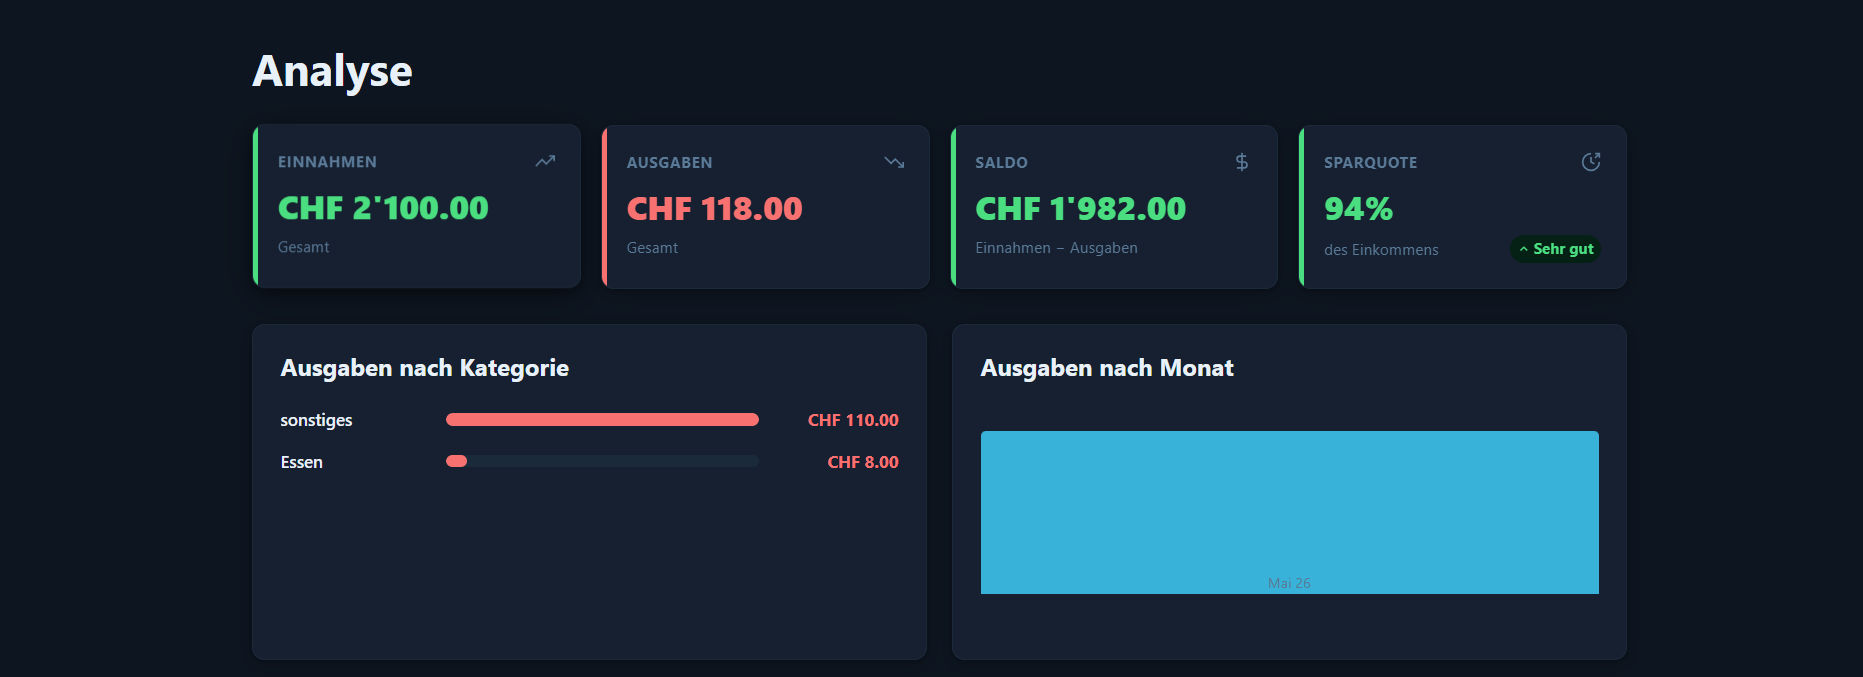
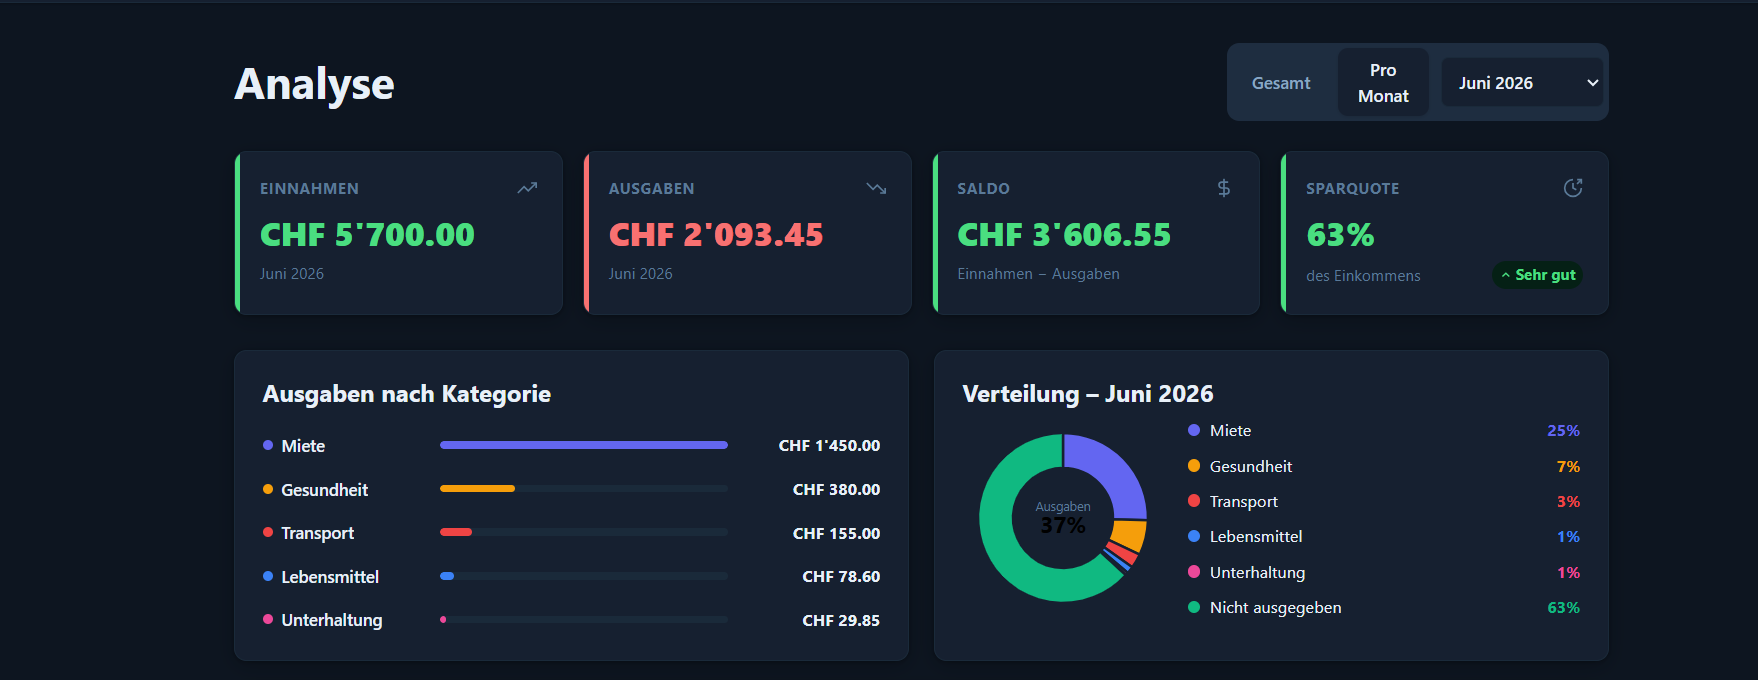
Update budget planner

diff --git a/README.md b/README.md
@@ -15,7 +15,6 @@
 6. [KI-Deklaration](#6-ki-deklaration)
 7. [Anhang](#7-anhang)
 
-> **Hinweis:** Massgeblich sind die im **Unterricht** und auf **Moodle** kommunizierten Anforderungen.
 
 <!-- WICHTIG: DIE KAPITELSTRUKTUR DARF NICHT VERÄNDERT WERDEN! -->
 
@@ -134,7 +133,9 @@ Beschreibt die Gestaltung und Interaktion des umgesetzten Prototyps.
 
   ![Analyse – Diagramme](docs/analyse1.png)
 
-  ![Analyse – Tabelle & Top-Ausgaben](docs/analyse2.png)
+  ![Analyse – Tabelle](docs/analyse2.png)
+
+  ![top ausgaben](docs/analyse3.png)
 
   **Sparziele** — Karten pro Ziel mit Fortschrittsbalken, Resttagen bis zum Zieldatum und direktem Einzahlungsformular. Oben vier Zusammenfassungskarten: Gesamt gespart, Gesamtziel, Noch offen, Ziele erreicht.
 
